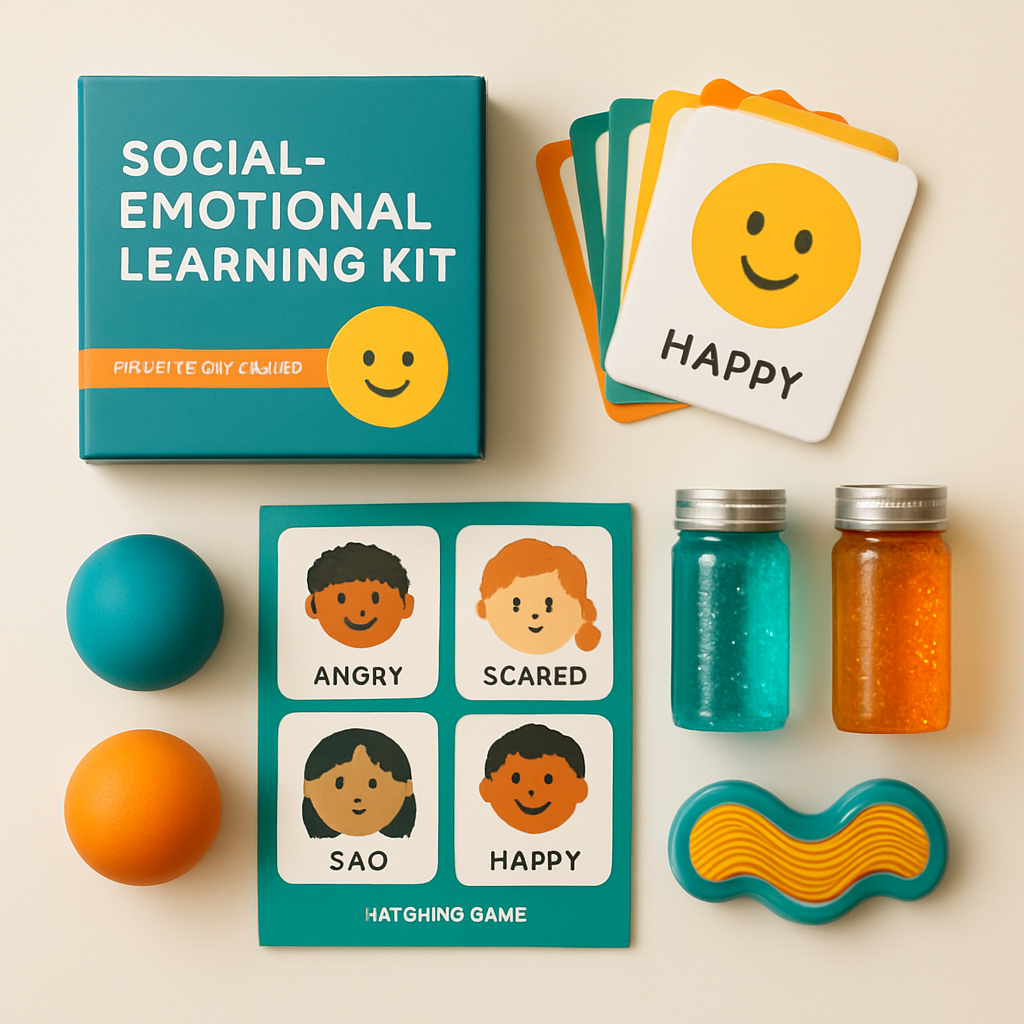
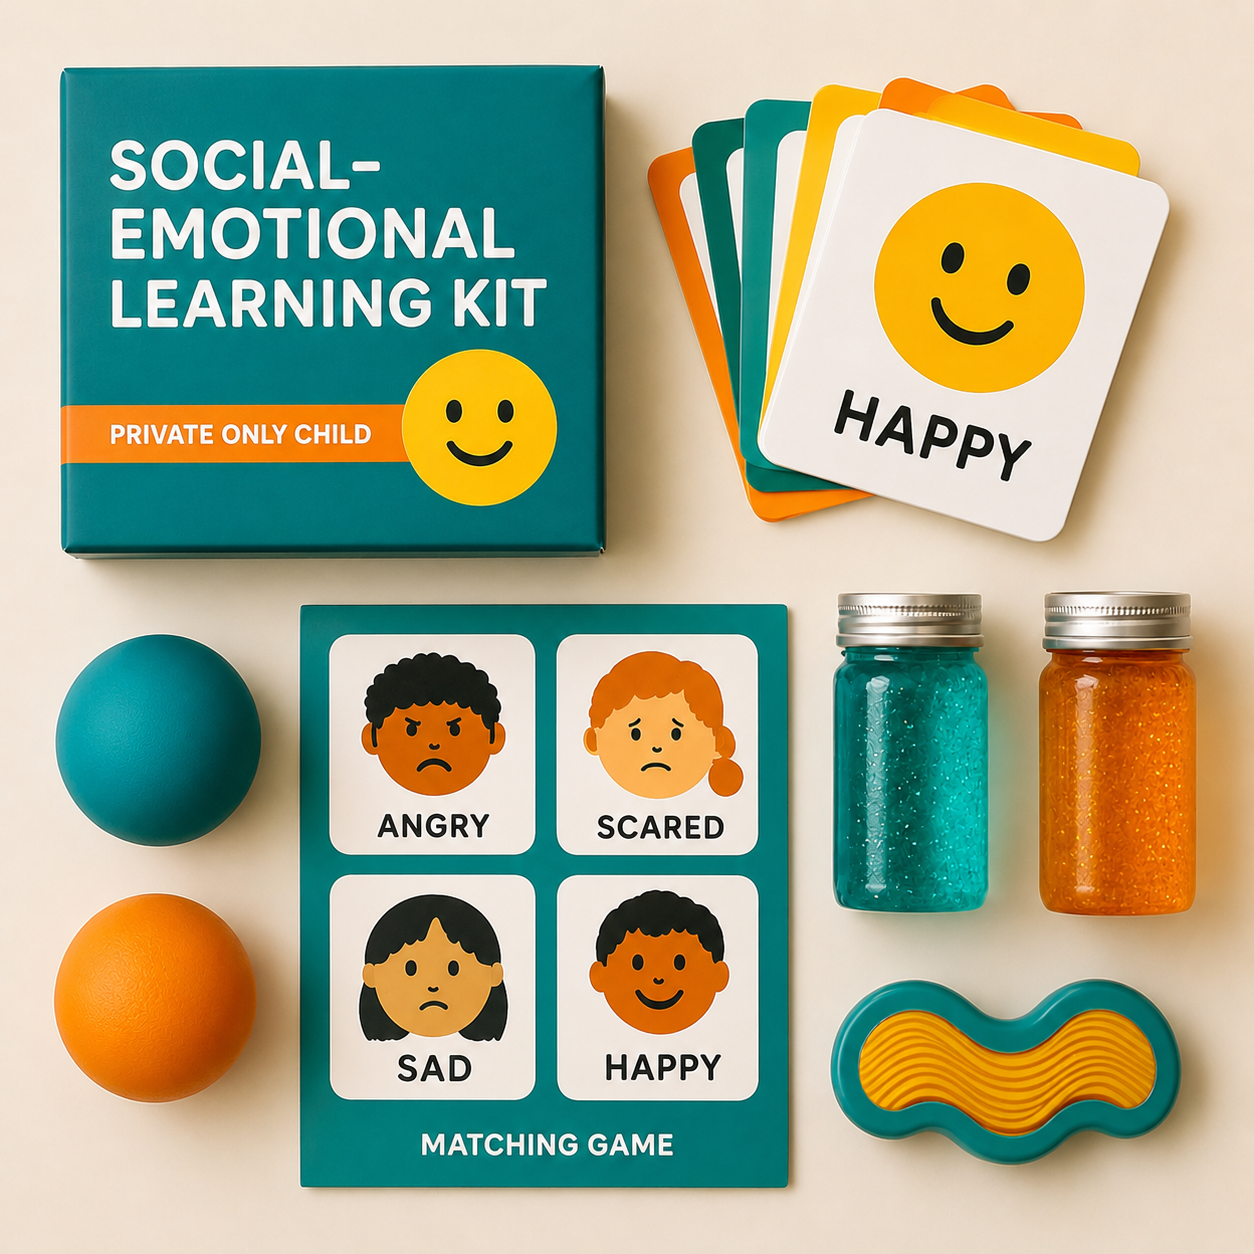
4th commit

diff --git a/app/shop/page.tsx b/app/shop/page.tsx
@@ -1,5 +1,6 @@
 import type { Metadata } from "next"
 import Image from "next/image"
+import Link from "next/link"
 import { PageHeader } from "@/components/page-header"
 import { CtaSection } from "@/components/cta-section"
 import { products } from "@/lib/products"
@@ -74,13 +75,11 @@ export default function ShopPage() {
                     <div className="mt-auto pt-2">
                       <Button
                         nativeButton={false}
-                        render={
-                          <a href={product.buyUrl} target="_blank" rel="noopener noreferrer" />
-                        }
+                        render={<Link href="/contact-us" />}
                         size="lg"
                         className="w-full sm:w-auto"
                       >
-                        {product.cta}
+                        To inquire about purchasing please contact us
                       </Button>
                     </div>
                   </div>
@@ -98,3 +97,4 @@ export default function ShopPage() {
     </>
   )
 }
+